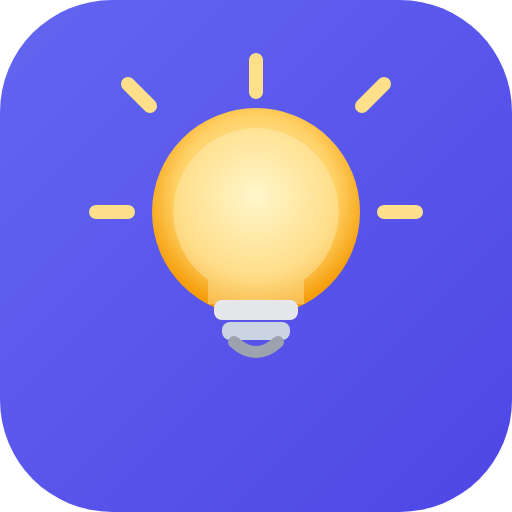
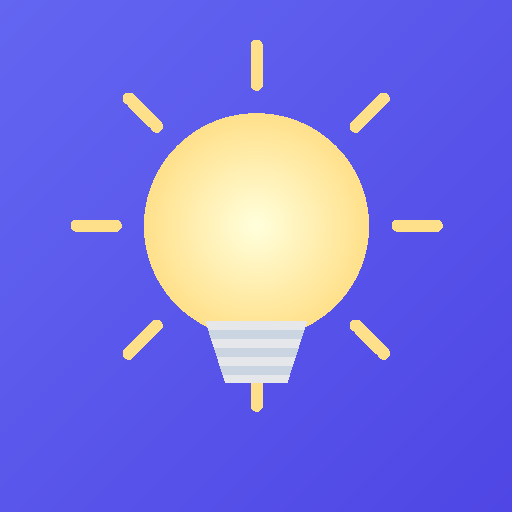
修复桌面图标:改为不透明实色填满方形,SW 缓存升到 v2

diff --git a/sw.js b/sw.js
@@ -2,7 +2,7 @@
 // 作用:首次联网打开后,把所有资源缓存到本机;之后即使断网也能打开(加到桌面后像 App 一样秒开)。
 // 更新内容时,把 CACHE_VERSION 改一下(如 v1 -> v2),用户下次联网打开即自动更新缓存。
 
-const CACHE_VERSION = "kepu-v1";
+const CACHE_VERSION = "kepu-v2";
 
 // 要缓存的资源(用相对路径,适配任意部署目录)
 const ASSETS = [
